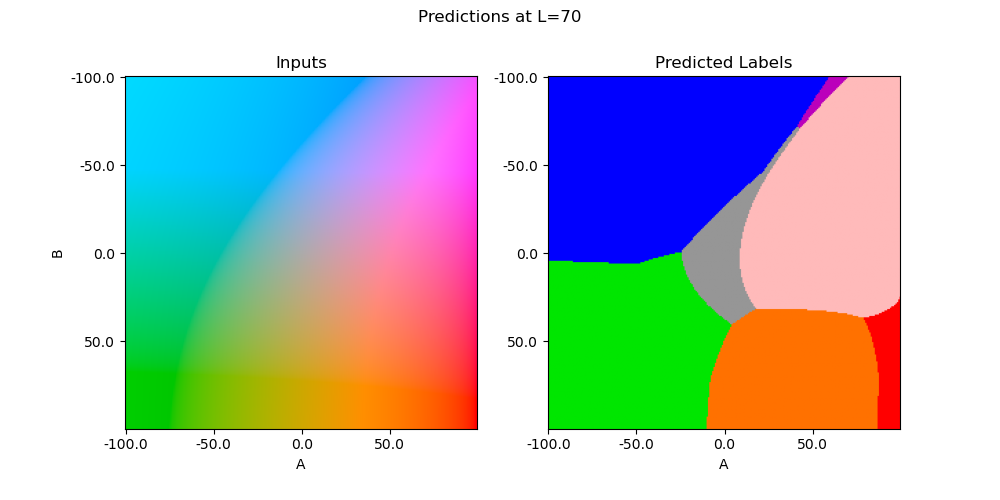
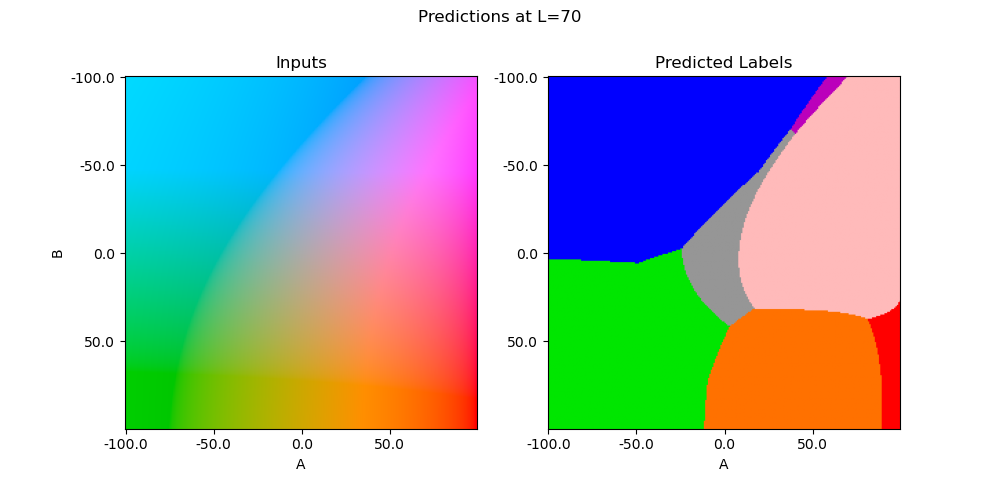
353 ass7 done

diff --git a/353/ass7/e7/colour_bayes.py b/353/ass7/e7/colour_bayes.py
@@ -2,12 +2,13 @@ import numpy as np
 import pandas as pd
 import matplotlib.pyplot as plt
 from skimage.color import lab2rgb
+from skimage.color import rgb2lab
 import sys
 import sklearn as sk
 from sklearn.model_selection import train_test_split
 from sklearn.naive_bayes import GaussianNB
 from sklearn.preprocessing import FunctionTransformer
-from skimage import colour
+
 from sklearn.pipeline import make_pipeline
 
 
@@ -88,9 +89,10 @@ def main(infile):
 
     # TODO: build model_lab to predict y from X by converting to LAB colour first.
     
-    transformer = FunctionTransformer(colour.rgb2lab)
+    # transformer = FunctionTransformer(color.rgb2lab)
     model_lab = make_pipeline(
-        transformer.transform(),
+        #transformer.transform(X),
+        FunctionTransformer(rgb2lab),
         GaussianNB()
     )
     model_lab.fit(X_train,y_train)
